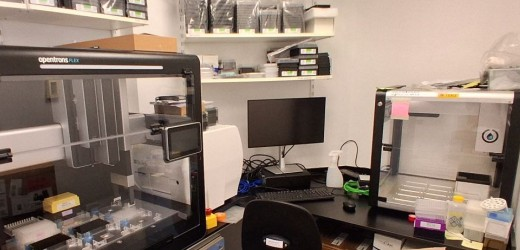
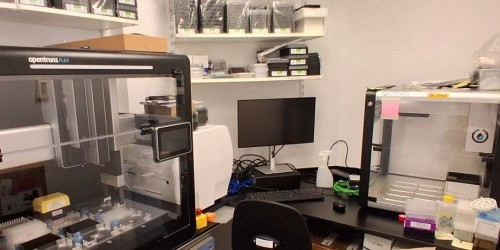
Alex edits to research page draft

diff --git a/research.html b/research.html
@@ -24,87 +24,73 @@
 					</header>
 
 					<!-- Content -->
+
+					<!-- Section -->
 					<section>
 						<header class="main">
-							<h1>Research</h1>
+							<h1>Our current research</h1>
 						</header>
 						<div class="posts">
-								<article>
-									<p>
-										<span class="image center">
-											<img src="images/research/casey_communities.jpg"
-												 alt="Agar plate cultures of two different engineered microbial communities." />
-										</span>
-									</p>
-									<h2>
-										<b>Microbial communities</b>
-									</h2>
-									<p>
-										By splitting the workload, several microbes in a community
-                                        can do much more than one strain alone. To explore what makes
-                                        microbial ecosystems efficient and resilient in nature
-                                        and in the lab, we engineer, observe and control different kinds of interactions
-										between community members.
-                                        This helps create reliable
-                                        biotechnologies for applications like sustainable manufacturing
-                                        and living therapeutics.
-									</p>
-								</article>
-								<article>
-									<p>
-										<span class="image center">
-											<img src="images/research/biocompute.jpg"
-												 alt="Schematic of spatial signals being processed by engineered bacteria." />
-										</span>
-									</p>
-									<h2>
-										<b>Self-organisation</b>
-									</h2>
-									<p>
-										Reacting to the environment in appropriate and specific ways
-										requires living systems to self-organise in space and time.
-										We engineer microbes with different
-										self-organisation mechanisms, investigating how complex behaviours can emerge
-										from simple logic on the single-cell level — and how this can be leveraged
-										for next-generation biocomputation and biosensing.
-									</p>
-								</article>
-								<article>
-									<p>
-										<span class="image center">
-												<img src="images/research/automation.jpg"
-													 alt="Photo of an automated experimental platform in Fedorec Research Group." />
-										</span>
-									</p>
-									<h2>
-										<b>Research automation</b>
-									</h2>
-									<p>
-										Our labs accelerates discovery by developing new
-										computational design algorithms and automated experimental platforms,
-										which enables higher-throughput and more informative
-										engineering biology experiments.
-									</p>
-								</article>
-								<article>
-									<p>
-										<span class="image center">
-											<img src="images/research/flopr.jpg"
-												 alt="Schematic of a computational method for standardisation
-												  of fluorescence measurements." />
-										</span>
-									</p>
-									<h2>
-										<b>Quantitative methods</b>
-									</h2>
-									<p>
-										To ensure that our data are reproducible and interoperable between
-										experimental platforms and different labs,
-										we establish robust quantitative methods and
-										standardised microbial engineering toolkits.
-									</p>
-								</article>
-							</div>
+							<article>
+								<h2>
+									<b>Synthetic microbial communities</b>
+								</h2>
+								<p>
+									<span class="image center">
+									<img src="images/research/casey_communities.jpg"
+											alt="Agar plate cultures of two different engineered microbial communities." />
+									</span>	
+									Microbes in nature are never found alone.
+									Through both cooperation and competion, a community of microbes can do much more than one strain alone.
+									We use two distinct approaches to understand microbial communities and harness their potential for applications from biomanufacturing to living therapeutics.
+									By building communities from the bottom-up -- engineering each interaction between species and their environment -- we aim to understand how robustness in natural ecosystem emerges and how to create new self-regulating microbiomes.
+									Conversely, using modern AI methods, we are able to take an existing community and learn how to control its composition and function by manipulating their environment.
+								</p>
+							</article>
+							<article>
+								<h2>
+									<b>Biological information processing</b>
+								</h2>
+								<p>
+									<span class="image center">
+										<img src="images/research/spatial_information.png"
+												alt="Schematic of spatial signals being processed by engineered bacteria." />
+									</span>
+									Reacting to their environment in appropriate and specific ways requires living systems to process information in space and time.
+									We engineer microbes to investigate how complex behaviours can emerge from simple logic on the single-cell level.
+									This can be leveraged for next-generation biocomputation and smart bio-materials, and to understand the development of cells, tissues and living organisms
+								</p>
+							</article>
+							<article>
+								<h2>
+									<b>Research automation</b>
+								</h2>
+								<p>
+									<span class="image center">
+										<img src="images/research/automation.jpg"
+												alt="Photo of an automated experimental platform in Fedorec Research Group." />
+									</span>
+									Understanding and engineering living systems requires slow and expensive interaction with the real world.
+									Our group accelerates discovery by developing new computational design and learning algorithms for biological systems, focusing lab resources onto experiments that provide the most information.
+									We also develop automated experimental platforms, enabling higher-throughput and quicker iteration between prediction and falsification.
+								</p>
+							</article>
+							<article>
+
+								<h2>
+									<b>Quantitative methods & tools</b>
+								</h2>
+								<p>
+									<span class="image center">
+										<img src="images/research/flopr.jpg"
+											alt="Schematic of a computational method for standardisation
+											of fluorescence measurements." />
+									</span>
+									To ensure that our data are reproducible, reusbale, and interoperable between experimental platforms and different labs,
+									we establish robust quantitative methods and standardised microbial engineering toolkits.
+								</p>
+							</article>
+						</div>
 					</section>
 				</div>
 			</div>
